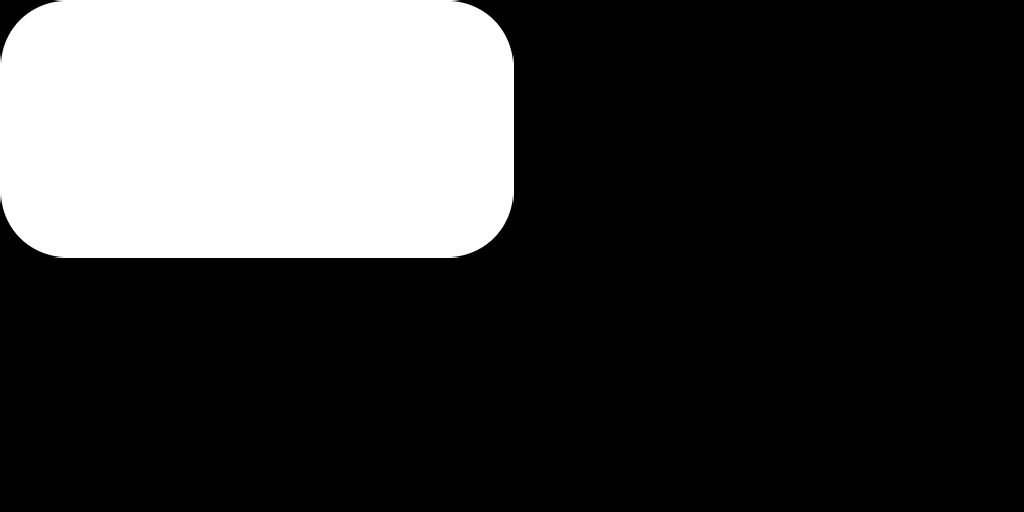
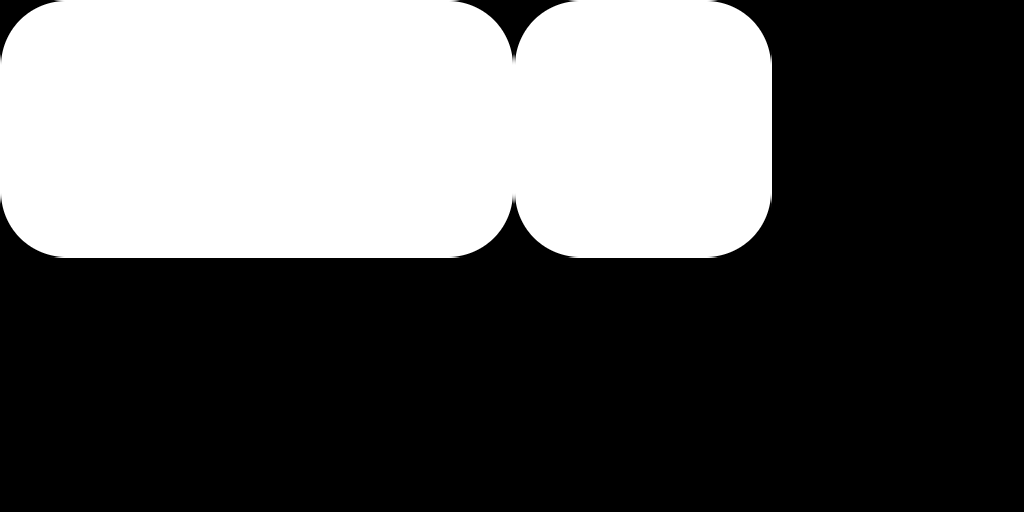
Added bees

Changed region(s): [[0.5, 0.0, 0.7812, 0.5312]]

diff --git a/sources/states/GameStartScene.cpp b/sources/states/GameStartScene.cpp
@@ -23,12 +23,13 @@
 
 #include "base/EntityManager.h"
 #include "systems/AnchorSystem.h"
+#include "systems/AutoDestroySystem.h"
 #include "systems/ButtonSystem.h"
 #include "systems/TextSystem.h"
 #include "systems/TransformationSystem.h"
 #include "systems/RenderingSystem.h"
 
-
+#include "util/Random.h"
 #include "PrototypeGame.h"
 
 struct GameStartScene : public StateHandler<Scene::Enum> {
@@ -36,6 +37,8 @@ struct GameStartScene : public StateHandler<Scene::Enum> {
 
     Entity texts[4];
     Entity playButton;
+    bool ready[4];
+    std::vector<Entity> highlights;
 
     GameStartScene(PrototypeGame* game) : StateHandler<Scene::Enum>() {
         this->game = game;
@@ -64,6 +67,15 @@ struct GameStartScene : public StateHandler<Scene::Enum> {
             sprintf(tmp, "%02d - %02d", 1 + game->playerActive[index], game->score[index]);
         }
         TEXT(texts[index])->text = tmp;
+    }
+
+    void updateReady(int index) {
+        if (ready[index]) {
+            BUTTON(game->playerButtons[index])->enabled = false;
+            TEXT(texts[index])->text = "";
+        } else {
+            TEXT(texts[index])->text = "tap";
+        }
     }
 
 
@@ -99,6 +111,12 @@ struct GameStartScene : public StateHandler<Scene::Enum> {
         }
 
         if (BUTTON(playButton)->clicked) {
+            for (int i=0; i<4; i++) {
+                ready[i] = (game->playerActive[i] < 0);
+                updateReady(i);
+            }
+            TEXT(playButton)->text = "tap when ready";
+            RENDERING(playButton)->show = false;
             return Scene::InGame;
         }
 
@@ -110,6 +128,58 @@ struct GameStartScene : public StateHandler<Scene::Enum> {
     ///--------------------- EXIT SECTION -----------------------------------------//
     ///----------------------------------------------------------------------------//
     void onPreExit(Scene::Enum) override {
+        game->bees.clear();
+        game->selected.clear();
+
+        for (int i=0; i<50; i++) {
+            Entity bee = theEntityManager.CreateEntityFromTemplate("game/bee");
+            RENDERING(bee)->show = true;
+            game->bees.push_back(bee);
+        }
+
+
+        size_t count = 0;
+        for (int i=0; i<4; i++) {
+            if (game->playerActive[i] >= 0) {
+                count += game->playerActive[i] + 1;
+            }
+        }
+
+        int n[100];
+        int index = 0;
+        Random::N_Ints(100, n, 0, game->bees.size() - 1);
+        while (game->selected.size() != count) {
+            game->selected.push_back(game->bees[n[index++]]);
+            std::unique(game->selected.begin(), game->selected.end());
+
+            LOGF_IF(index == 100, "Bleuarg, not enough random values");
+        }
+
+        int idx = 0;
+        for (int i=0; i<4; i++) {
+            for (int j=0; j<game->playerActive[i] + 1; j++) {
+                Entity h = theEntityManager.CreateEntityFromTemplate("game/bee_highlight");
+                ANCHOR(h)->parent = game->selected[idx++];
+                TRANSFORM(h)->size = TRANSFORM(ANCHOR(h)->parent)->size * 2.0f;
+                RENDERING(h)->color = game->playerColors[i + 1];
+                highlights.push_back(h);
+            }
+        }
+    }
+
+    bool updatePreExit(Scene::Enum, float) override {
+        for (int i=0; i<4; i++) {
+            if (BUTTON(game->playerButtons[i])->clicked) {
+                ready[i] = !ready[i];
+                updateReady(i);
+            }
+        }
+
+        for (int i=0; i<4; i++) {
+            if (!ready[i])
+                return false;
+        }
+        return true;
     }
 
     void onExit(Scene::Enum) override {
@@ -121,6 +191,10 @@ struct GameStartScene : public StateHandler<Scene::Enum> {
         TEXT(playButton)->show =
             BUTTON(playButton)->enabled =
             RENDERING(playButton)->show = false;
+
+        for (auto h: highlights) {
+            AUTO_DESTROY(h)->type = AutoDestroyComponent::LIFETIME;
+        }
     }
 };
 

diff --git a/sources/states/InGameScene.cpp b/sources/states/InGameScene.cpp
@@ -19,7 +19,16 @@
 */
 
 #include "base/StateMachine.h"
+#include "base/EntityManager.h"
 #include "Scenes.h"
+
+#include "../PrototypeGame.h"
+#include "systems/AnchorSystem.h"
+#include "systems/ButtonSystem.h"
+#include "systems/TextSystem.h"
+#include "systems/TransformationSystem.h"
+#include "systems/RenderingSystem.h"
+
 
 struct InGameScene : public StateHandler<Scene::Enum> {
     PrototypeGame* game;
@@ -38,6 +47,7 @@ struct InGameScene : public StateHandler<Scene::Enum> {
     ///----------------------------------------------------------------------------//
 
     void onEnter(Scene::Enum) override {
+
     }
 
 

diff --git a/sources/PrototypeGame.h b/sources/PrototypeGame.h
@@ -51,6 +51,8 @@ class PrototypeGame : public Game {
         int score[4];
         int playerActive[4];
         Entity playerButtons[4];
+        std::vector<Entity> bees;
+        std::vector<Entity> selected;
 
     private:
         StateMachine<Scene::Enum> sceneStateMachine;
